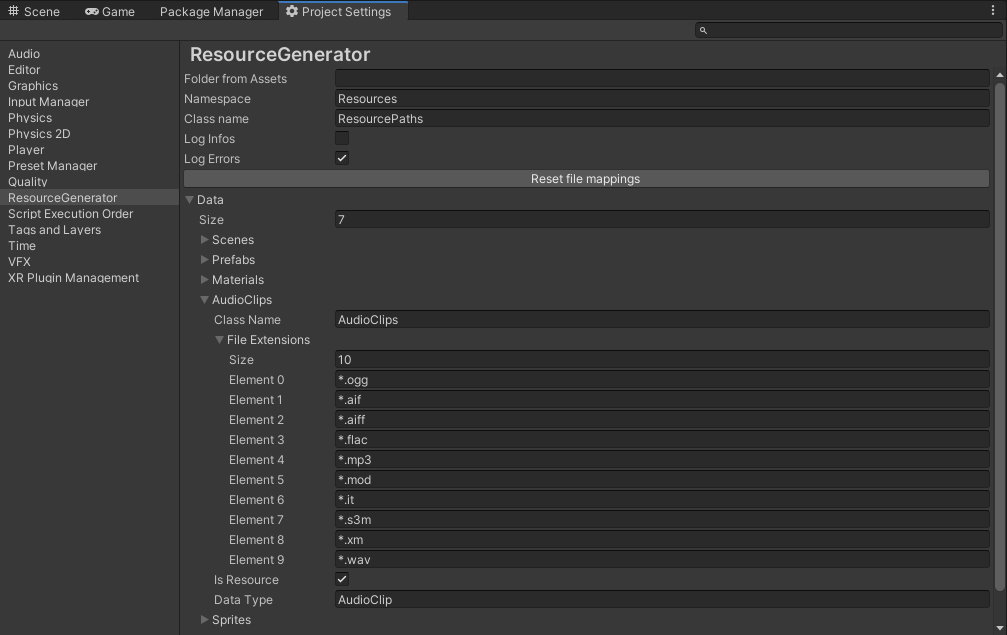
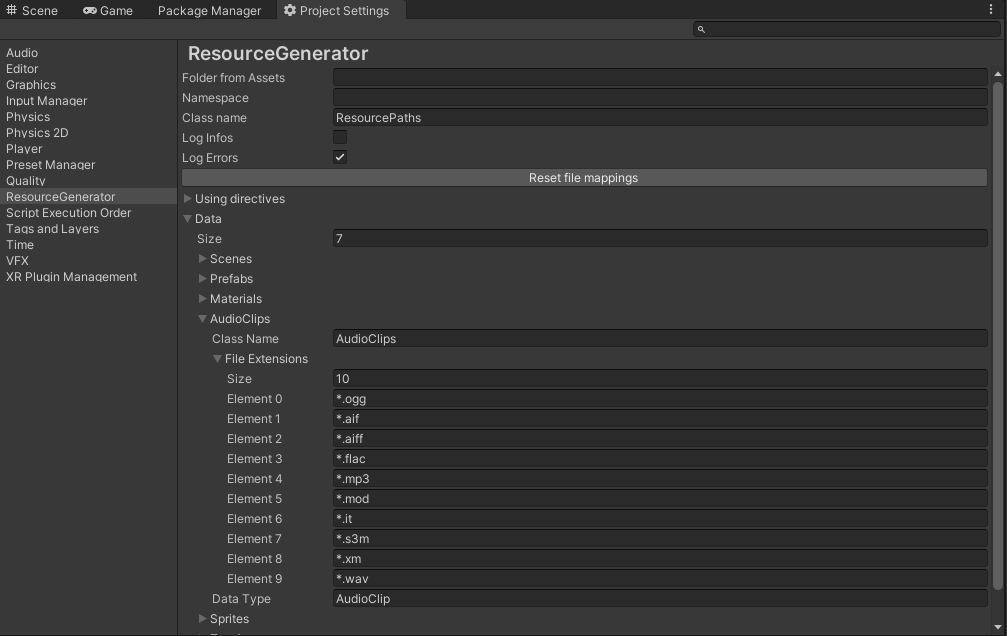
Rework scene generation, remove IsResource

diff --git a/UnityResourceGenerator/Assets/AutSoft.UnityResourceGenerator/Editor/ResourceGeneratorSettings.cs b/UnityResourceGenerator/Assets/AutSoft.UnityResourceGenerator/Editor/ResourceGeneratorSettings.cs
@@ -14,24 +14,21 @@ namespace AutSoft.UnityResourceGenerator.Editor
         {
             [SerializeField] private string _className = default;
             [SerializeField] private string[] _fileExtensions = default;
-            [SerializeField] private bool _isResource = default;
             [SerializeField] private string _dataType = default;
 
             public ResourceData()
             {
             }
 
-            public ResourceData(string className, string[] fileExtensions, bool isResource, string dataType)
+            public ResourceData(string className, string[] fileExtensions, string dataType)
             {
                 _className = className;
                 _fileExtensions = fileExtensions;
-                _isResource = isResource;
                 _dataType = dataType;
             }
 
             public string ClassName => _className;
             public IReadOnlyList<string> FileExtensions => _fileExtensions;
-            public bool IsResource => _isResource;
             public string DataType => _dataType;
         }
 
@@ -86,13 +83,13 @@ namespace AutSoft.UnityResourceGenerator.Editor
             (
                 new List<ResourceData>
                 {
-                    new ResourceData("Scenes", new[] { "*.unity" }, false, "Scene"),
-                    new ResourceData("Prefabs", new[] { "*.prefab" }, true, "GameObject"),
-                    new ResourceData("Materials", new[] { "*.mat" }, true, "Material"),
-                    new ResourceData("AudioClips", new[] { "*.ogg", "*.aif", "*.aiff", "*.flac", "*.mp3", "*.mod", "*.it", "*.s3m", "*.xm", "*.wav" }, true, "AudioClip"),
-                    new ResourceData("Sprites", new[] { "*.jpg", "*.jpeg", "*.tif", "*.tiff", "*.tga", "*.gif", "*.png", "*.psd", "*.bmp", "*.iff", "*.pict", "*.pic", "*.pct", "*.exr", "*.hdr" }, true, "Sprite"),
-                    new ResourceData("TextAssets", new[] { "*.txt", "*.html", "*.htm", "*.xml", "*.bytes", "*.json", "*.csv", "*.yaml", "*.fnt" }, true, "TextAsset"),
-                    new ResourceData("Fonts", new[] { "*.ttf", "*.dfont", "*.otf", "*.ttc" }, true, "Font")
+                    new ResourceData("Scenes", new[] { "*.unity" }, "Scene"),
+                    new ResourceData("Prefabs", new[] { "*.prefab" }, "GameObject"),
+                    new ResourceData("Materials", new[] { "*.mat" }, "Material"),
+                    new ResourceData("AudioClips", new[] { "*.ogg", "*.aif", "*.aiff", "*.flac", "*.mp3", "*.mod", "*.it", "*.s3m", "*.xm", "*.wav" }, "AudioClip"),
+                    new ResourceData("Sprites", new[] { "*.jpg", "*.jpeg", "*.tif", "*.tiff", "*.tga", "*.gif", "*.png", "*.psd", "*.bmp", "*.iff", "*.pict", "*.pic", "*.pct", "*.exr", "*.hdr" }, "Sprite"),
+                    new ResourceData("TextAssets", new[] { "*.txt", "*.html", "*.htm", "*.xml", "*.bytes", "*.json", "*.csv", "*.yaml", "*.fnt" }, "TextAsset"),
+                    new ResourceData("Fonts", new[] { "*.ttf", "*.dfont", "*.otf", "*.ttc" }, "Font")
                 },
                 new List<string>
                 {

diff --git a/UnityResourceGenerator/Assets/AutSoft.UnityResourceGenerator/Editor/Generation/Modules/AllResources.cs b/UnityResourceGenerator/Assets/AutSoft.UnityResourceGenerator/Editor/Generation/Modules/AllResources.cs
@@ -32,8 +32,8 @@ $@"
                 .SelectMany(ext => Directory.EnumerateFiles(context.AssetsFolder, ext, SearchOption.AllDirectories))
                 .Select(filePath =>
                 {
-                    var (canLoad, baseFolder) = GetBaseFolder(filePath, data.IsResource, context);
-                    if (!canLoad) return (null, null);
+                    var (canLoad, baseFolder) = GetBaseFolder(filePath, context, data);
+                    if (!canLoad) return (null, null, null);
 
                     var resourcePath = filePath
                         .Replace(baseFolder, string.Empty)
@@ -49,7 +49,8 @@ $@"
                     return
                     (
                         name: Path.GetFileNameWithoutExtension(filePath),
-                        path: resourcePath
+                        path: resourcePath,
+                        fileExtension: Path.GetExtension(filePath)
                     );
                 })
                 .Where(p => p.name != null)
@@ -77,7 +78,7 @@ $@"
                     {
                         sb.Append("            public const string ").Append(s.name).Append(" = \"").Append(s.path).AppendLine("\";");
 
-                        if (data.DataType == "Scene")
+                        if (s.fileExtension == ".unity")
                         {
                             sb.Append("            public static ").Append("void").Append(" Load").Append(s.name).Append("(LoadSceneMode mode = LoadSceneMode.Single) => SceneManager.LoadScene(").Append(s.name).AppendLine(", mode);");
                             sb.Append("            public static ").Append("AsyncOperation").Append(" LoadAsync").Append(s.name).Append("(LoadSceneMode mode = LoadSceneMode.Single) => SceneManager.LoadSceneAsync(").Append(s.name).AppendLine(", mode);");
@@ -99,9 +100,9 @@ $@"
             void LogFinished() => context.Info($"Finished generating {data.ClassName}");
         }
 
-        private static (bool canLoad, string baseFolder) GetBaseFolder(string filePath, bool isResource, ResourceContext context)
+        private static (bool canLoad, string baseFolder) GetBaseFolder(string filePath, ResourceContext context, IResourceData data)
         {
-            if (!isResource) return (true, context.AssetsFolder);
+            if (Path.GetExtension(filePath) == ".unity") return (true, context.AssetsFolder);
 
             var parents = GetAllParentDirectories(filePath);
             var resourcesFolder = parents.LastOrDefault(p => p.Name == "Resources");

diff --git a/UnityResourceGenerator/Assets/AutSoft.UnityResourceGenerator/Editor/Generation/IResourceData.cs b/UnityResourceGenerator/Assets/AutSoft.UnityResourceGenerator/Editor/Generation/IResourceData.cs
@@ -6,7 +6,6 @@ namespace AutSoft.UnityResourceGenerator.Editor.Generation
     {
         string ClassName { get; }
         IReadOnlyList<string> FileExtensions { get; }
-        bool IsResource { get; }
         string DataType { get; }
     }
 }

diff --git a/Documentation/articles/Customization.md b/Documentation/articles/Customization.md
@@ -27,6 +27,9 @@ The data section describes the automatically generated file mappings. The data i
 
 The default mappings are created from the [Unity documentation](https://docs.unity3d.com/Manual/BuiltInImporters.html). If you know of any valid file mapping that the documentation does not state, please fork and create a Pull Request, or create an [Issue](https://github.com/AutSoft/UnityResourceGenerator/issues/new).
 
+> [!WARNING]
+> Scenes have special handling during the file generation, because of the way scenes paths are used by the SceneManager. Scenes are identified by the file ending `.unity`
+
 ## Extending the generated classes
 
 The generated classes are `partial` by default. This means that if you want to add custom methods, simply create another `partial` class and add your code there.

diff --git a/CHANGELOG.md b/CHANGELOG.md
@@ -3,6 +3,7 @@
 - Reference documentation in `package.json`
 - Make using namespaces optional
 - Configure using directives
+- Remove `IsResource` property from `IResourceData`. Scene path generation now depends on file extension
 
 # 0.1.0
 - Add initial project
